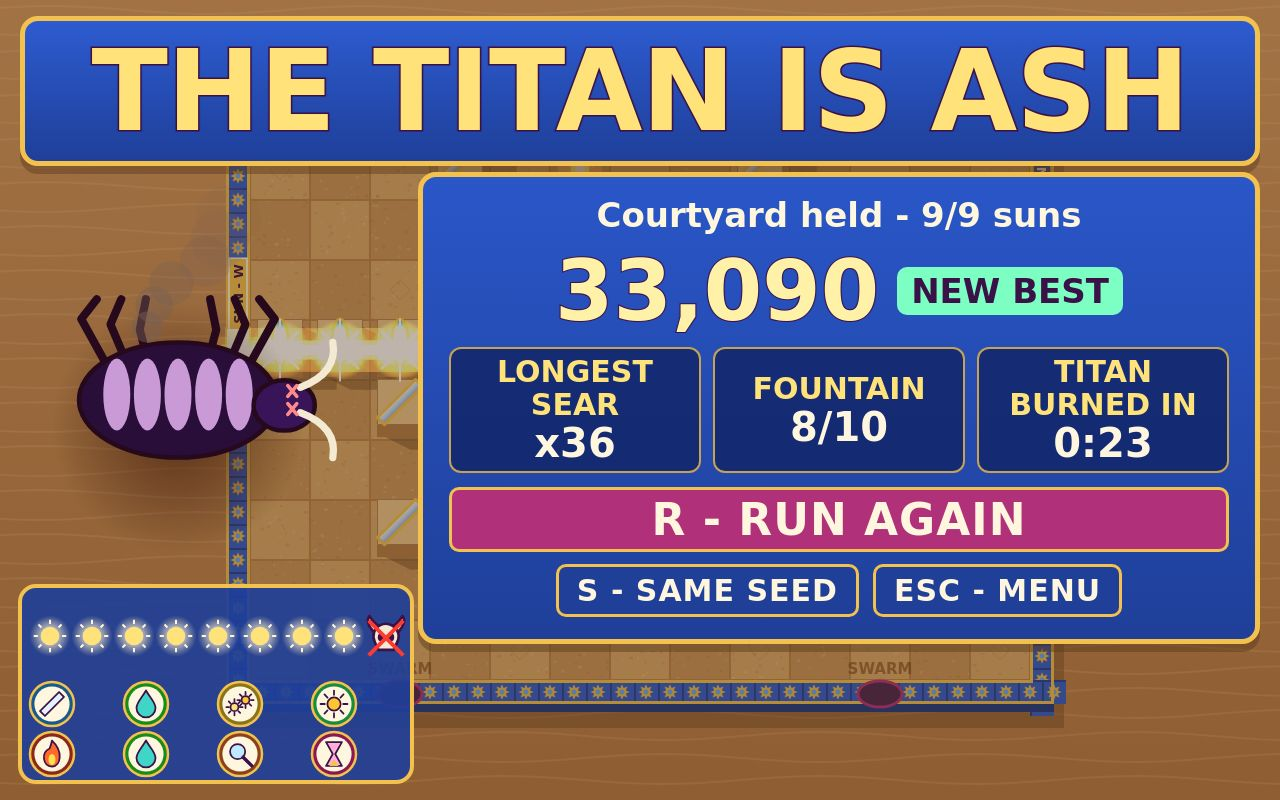
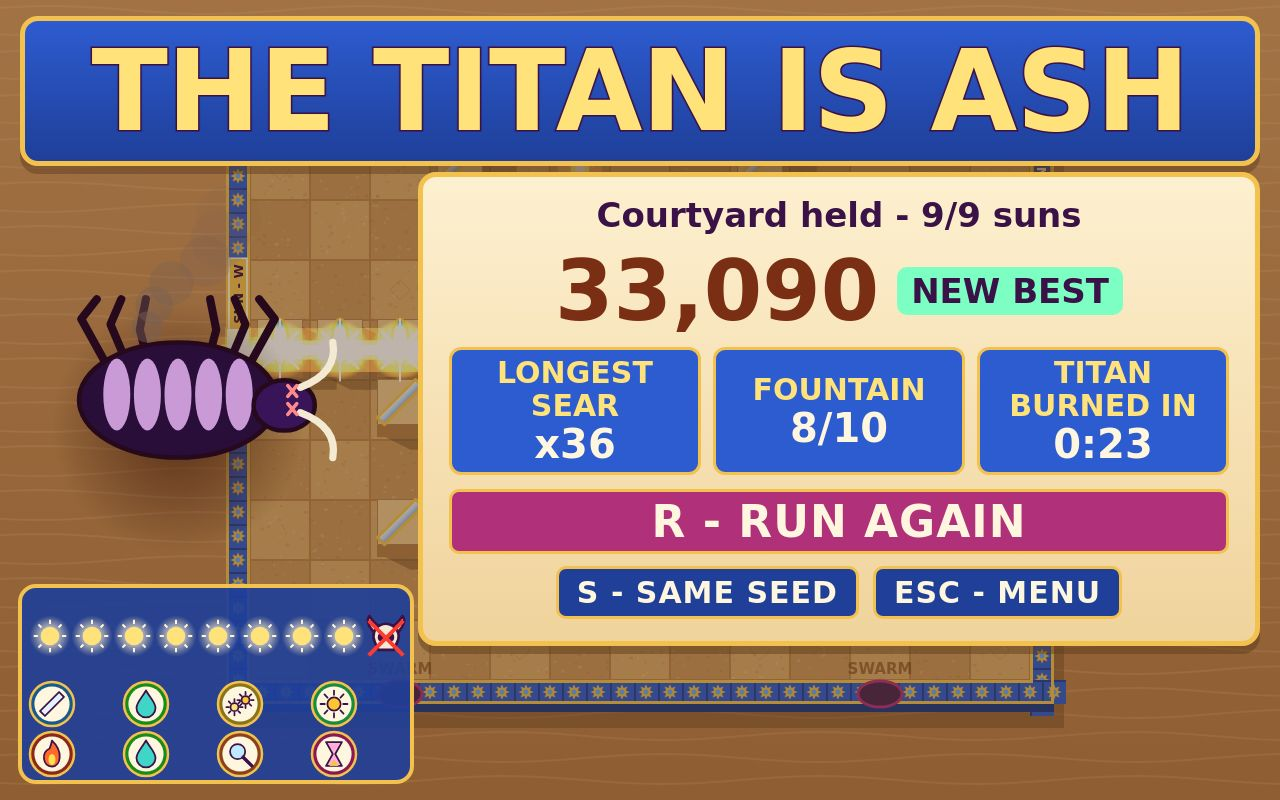
Results plaque in warm parchment with lapis tiles (passes the luminance and warmth gate)

diff --git a/game/style.css b/game/style.css
@@ -67,13 +67,13 @@ button.big:hover { background: #cf3f93; }
 .results-head { position: absolute; left: 20px; right: 20px; top: 16px; height: 140px; display: flex; align-items: center; justify-content: center; overflow: hidden; background: linear-gradient(#2d5bd0, #1f3f99); border: 5px solid #f2c14e; border-radius: 18px; box-shadow: 0 8px 0 rgba(91, 58, 30, 0.45); }
 #results-title { margin: 0; width: max-content; white-space: nowrap; font: 900 112px system-ui, sans-serif; line-height: 1; letter-spacing: -1px; color: #ffe27a; -webkit-text-stroke: 3px #3b1247; paint-order: stroke fill; transform: scaleX(var(--fit, 1)); }
 .lost #results-title { color: #ff8a8a; }
-.sheet.results { position: absolute; right: 20px; top: 172px; width: 780px; margin: 0; padding: 18px 26px 22px; gap: 14px; background: linear-gradient(#2a56c8, #1f3f99); border: 5px solid #f2c14e; box-shadow: 0 8px 0 rgba(91, 58, 30, 0.45); }
+.sheet.results { position: absolute; right: 20px; top: 172px; width: 780px; margin: 0; padding: 18px 26px 22px; gap: 14px; background: linear-gradient(#fdf0d0, #f0d39c); border: 5px solid #f2c14e; box-shadow: 0 8px 0 rgba(91, 58, 30, 0.45); }
 .lost .sheet.results { border-color: #ff8a8a; }
-.results .sub { margin: 0; font-size: 34px; font-weight: 900; color: #fff6df; text-shadow: none; }
-.score { font: 900 84px system-ui, sans-serif; line-height: 1; color: #fff2a8; display: flex; align-items: center; gap: 18px; -webkit-text-stroke: 2px #3b1247; paint-order: stroke fill; }
+.results .sub { margin: 0; font-size: 34px; font-weight: 900; color: #3b1247; text-shadow: none; }
+.score { font: 900 84px system-ui, sans-serif; line-height: 1; color: #7a2e14; display: flex; align-items: center; gap: 18px; }
 .score em { font: 900 34px system-ui, sans-serif; font-style: normal; color: #3b1247; background: #7dffc4; border-radius: 10px; padding: 4px 14px; -webkit-text-stroke: 0; }
 .stats { display: flex; gap: 12px; }
-.stats div { display: flex; flex-direction: column; align-items: center; justify-content: center; flex: 1; min-width: 220px; padding: 6px 10px; background: rgba(15, 30, 90, 0.7); border: 2px solid rgba(242, 193, 78, 0.8); border-radius: 12px; }
+.stats div { display: flex; flex-direction: column; align-items: center; justify-content: center; flex: 1; min-width: 220px; padding: 6px 10px; background: #2d5bd0; border: 3px solid #f2c14e; border-radius: 12px; }
 .stats small { font-size: 30px; font-weight: 900; color: #ffe27a; line-height: 1.1; }
 .stats b { font-size: 40px; font-weight: 900; color: #fff6df; line-height: 1.1; }
 .history { display: flex; gap: 12px; }
